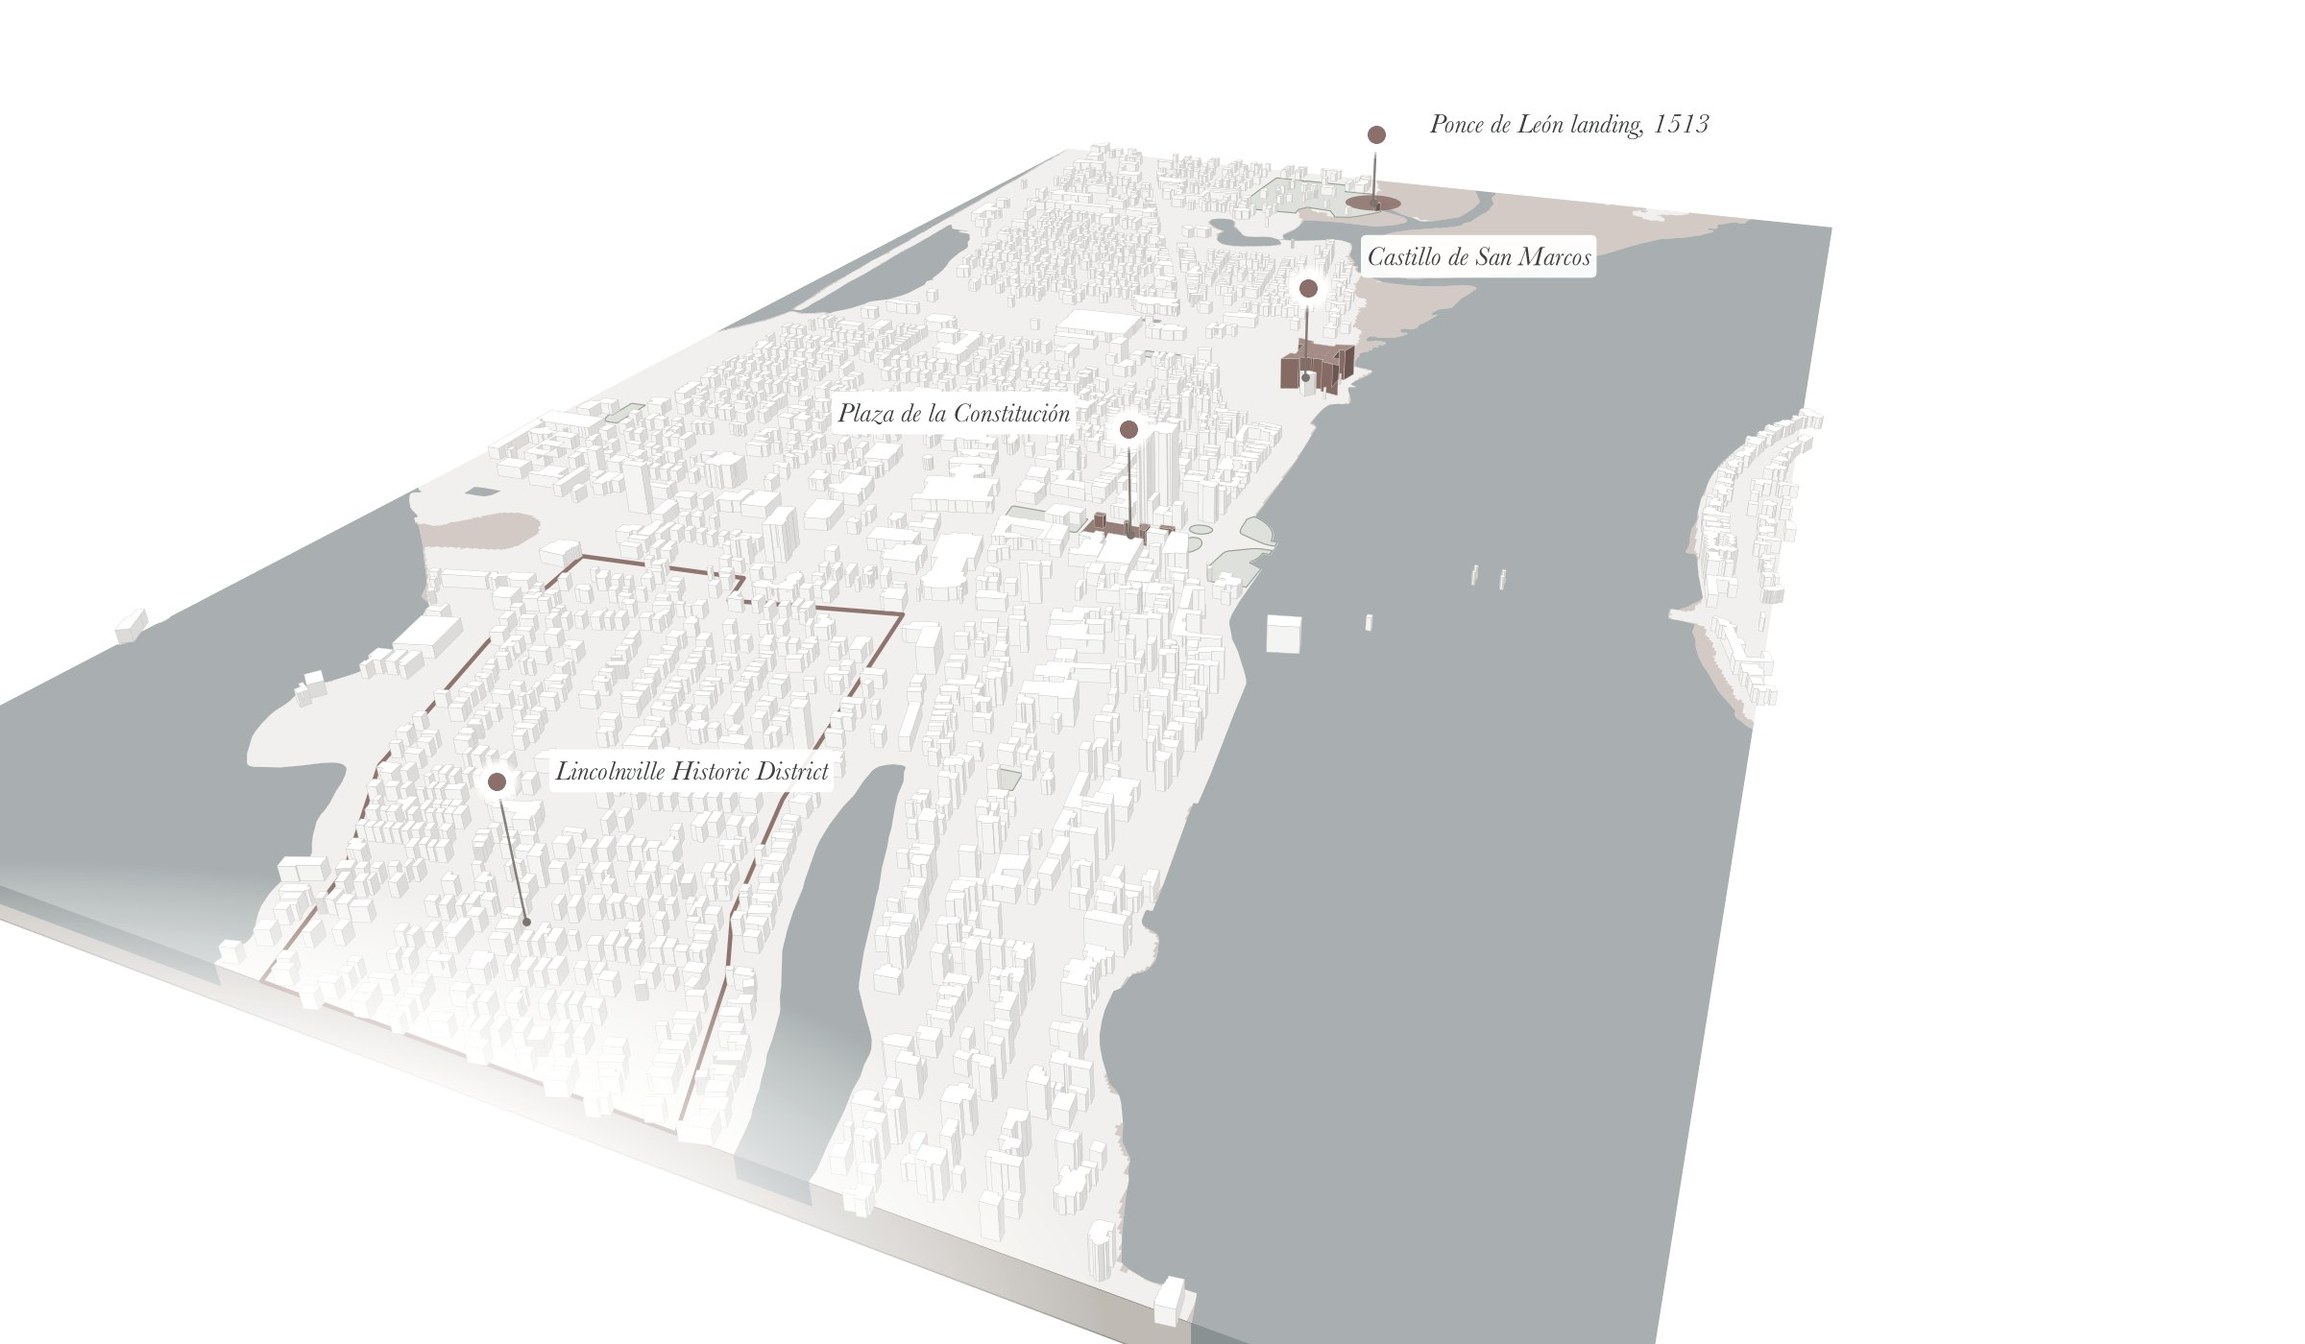
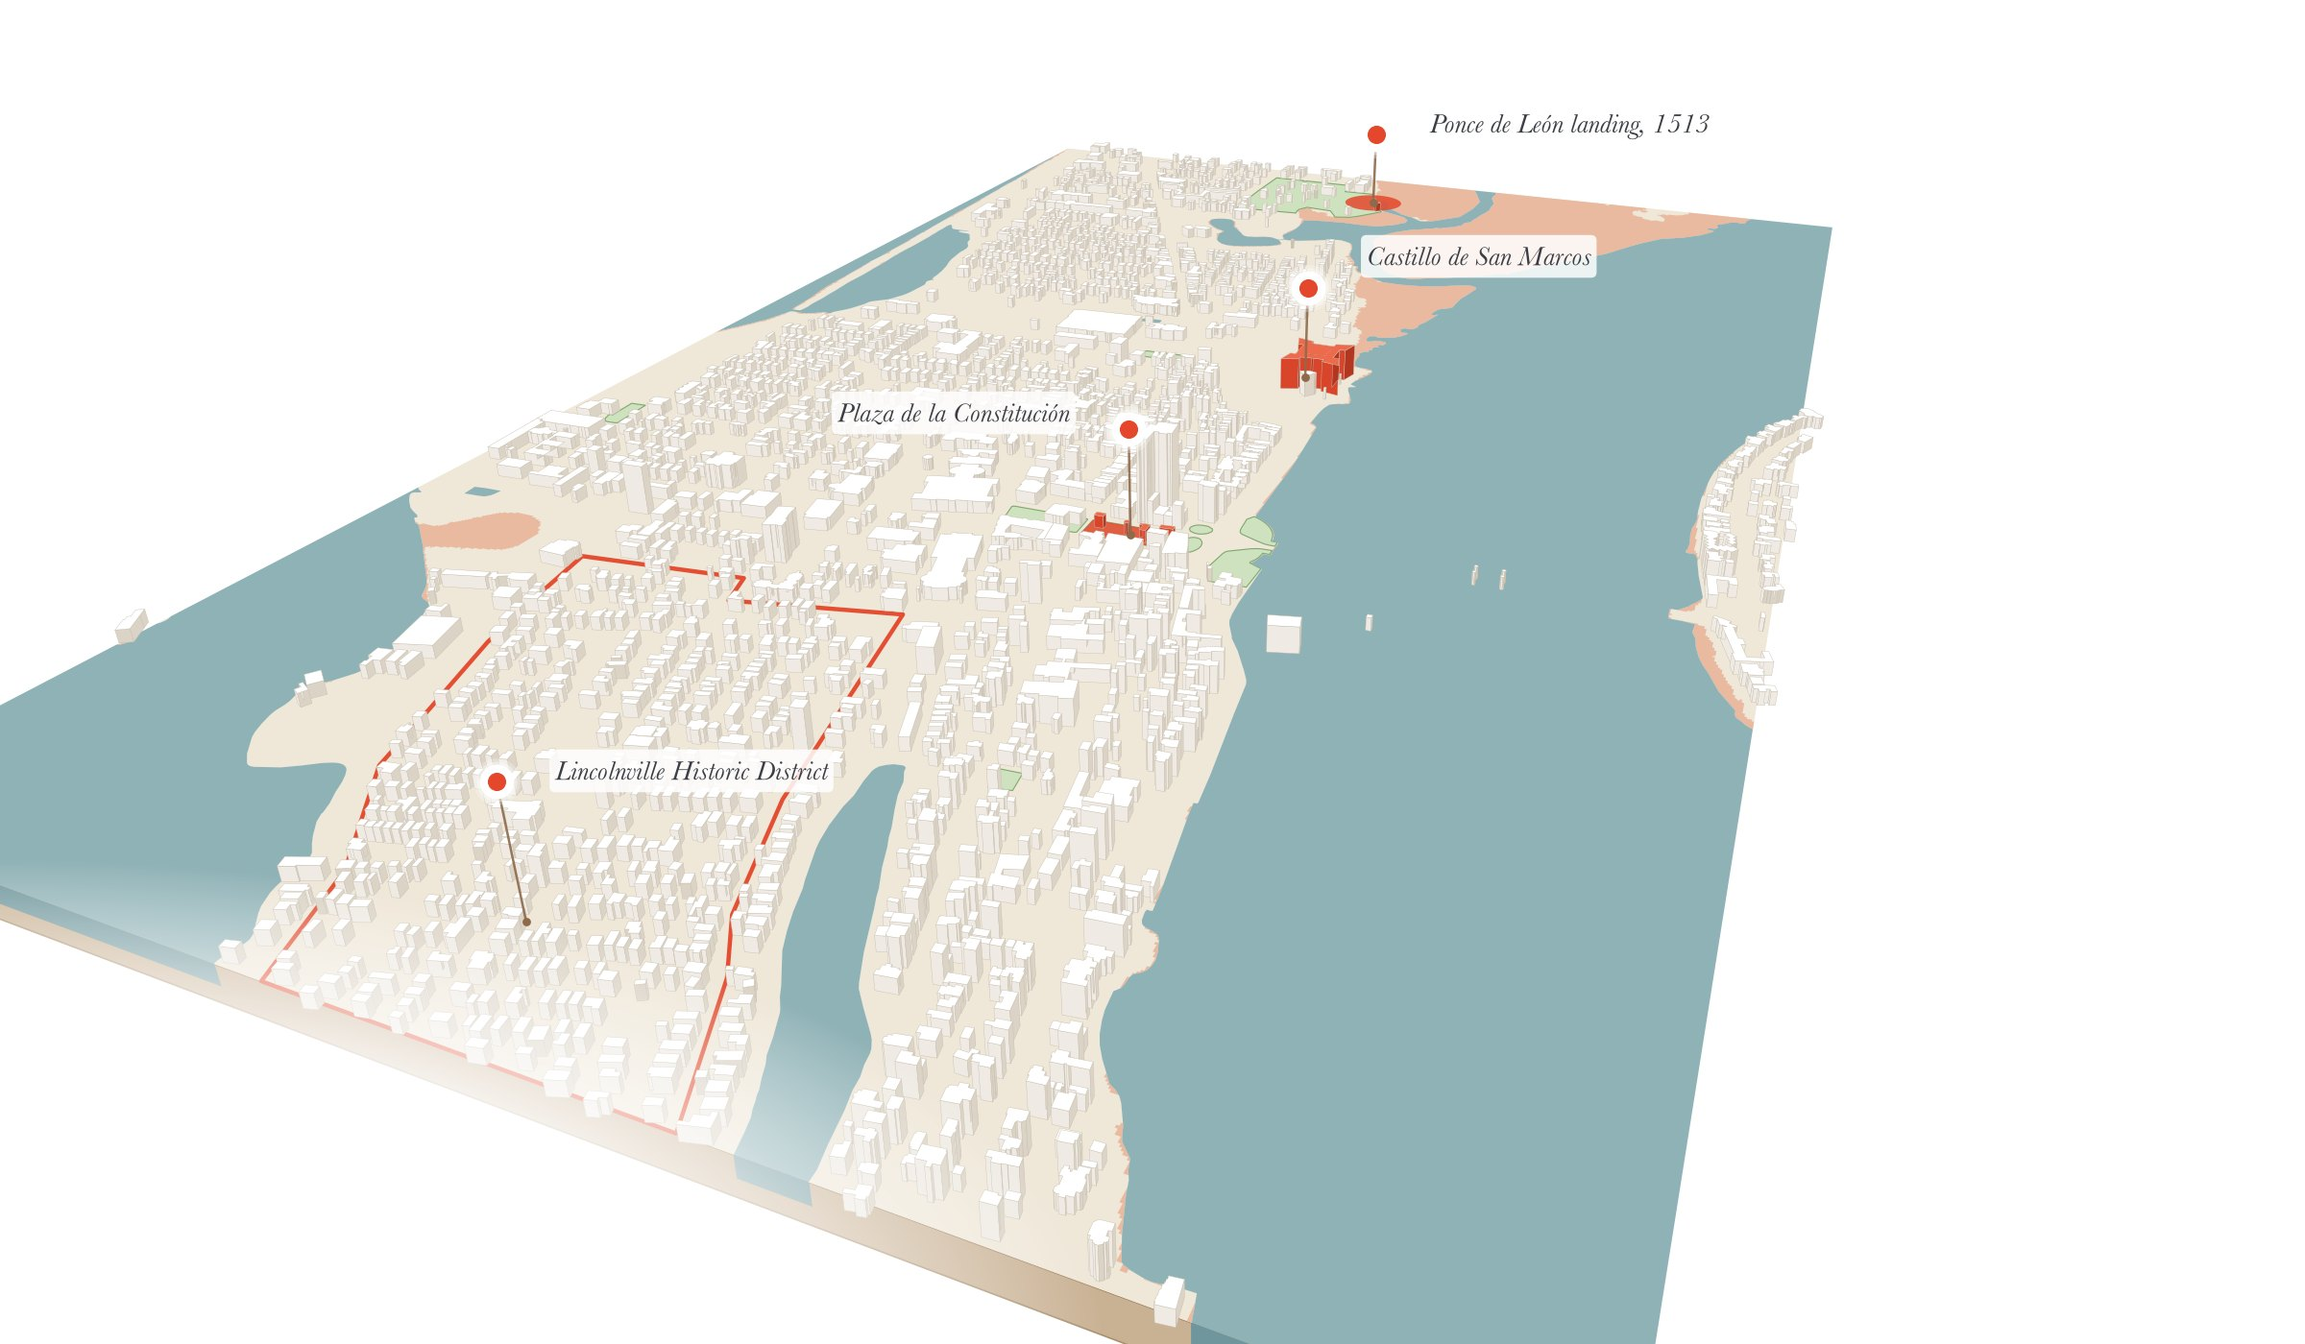
Project page in the cover palette: serif headings, numbered sections, tide-staff level picker; today in full colour on the slider

diff --git a/docs/index.html b/docs/index.html
@@ -5,35 +5,42 @@
 <meta name="viewport" content="width=device-width,initial-scale=1">
 <meta name="description" content="Sea-level-rise scenarios for St. Augustine, Florida: land loss at 1-9 ft, historic sites and parks at risk, and zoomable vector PDF figures.">
 <title>St. Augustine Under Rising Water</title>
-<link rel="stylesheet" href="https://fonts.googleapis.com/css2?family=IBM+Plex+Sans+Condensed:wght@500;600;700&family=IBM+Plex+Sans:ital,wght@0,400;0,500;1,400&family=IBM+Plex+Mono:wght@400;500&display=swap">
+<link rel="stylesheet" href="https://fonts.googleapis.com/css2?family=Libre+Baskerville:ital,wght@0,400;0,700;1,400&family=IBM+Plex+Sans:ital,wght@0,400;0,500;1,400&family=IBM+Plex+Mono:wght@400;500&display=swap">
 <style>
 /* Layout: one reading column; a tide-gauge table up top, then each figure as a plate with its vector PDF beneath. */
+/* Palette follows the cover graphics: cream land, teal sea, aqua flood, vermilion landmarks.
+   The gauge keeps the figures' blue and orange so it reads with Figures 1 and 2. */
 :root {
-  --bg: #f6f7f5;
-  --surface: #ffffff;
-  --ink: #13181c;
-  --muted: #5d666c;
-  --rule: #dfe3e2;
+  --bg: #f5f1e8;       /* land on the covers */
+  --surface: #fffcf6;
+  --ink: #2b3136;
+  --muted: #6a6f6c;
+  --rule: #e2d9c8;
+  --teal: #0f6e7a;     /* headline teal of the covers */
+  --flood: #18a7b5;    /* new flood water on the covers */
   --slr: #2a78d6;      /* ocean-connected, same blue as the figures */
   --low: #eb6834;      /* low-lying unconnected, same orange as the figures */
   --today: #a9a8a2;    /* already inundated at 0 ft */
-  --track: #e8ecec;
-  --focus: #2a78d6;
+  --track: #ebe4d6;
+  --focus: #0f6e7a;
   --accent: #e4472b;   /* landmarks and the compare handle, same vermilion as the covers */
-  --font-display: "IBM Plex Sans Condensed", "Arial Narrow", system-ui, sans-serif;
+  --shadow: 0 1px 2px rgba(60, 50, 30, 0.06), 0 8px 28px rgba(60, 50, 30, 0.08);
+  --font-display: "Libre Baskerville", Baskerville, Georgia, serif;
   --font-body: "IBM Plex Sans", system-ui, -apple-system, "Segoe UI", sans-serif;
   --font-mono: "IBM Plex Mono", ui-monospace, "SFMono-Regular", Menlo, monospace;
 }
 @media (prefers-color-scheme: dark) {
   :root:not([data-theme="light"]) {
-    --bg: #0f1417; --surface: #161d21; --ink: #e7ecee; --muted: #9aa5ab; --rule: #2a3439;
-    --slr: #5b9cf0; --low: #f08257; --today: #7d7c77; --track: #232c31; --focus: #5b9cf0; --accent: #f0664c;
+    --bg: #121819; --surface: #1a2224; --ink: #ece7dc; --muted: #a2a9a6; --rule: #2c3639;
+    --teal: #5cc6d1; --flood: #3cc3cf; --slr: #5b9cf0; --low: #f08257; --today: #7d7c77;
+    --track: #253033; --focus: #5cc6d1; --accent: #f0664c; --shadow: 0 8px 28px rgba(0, 0, 0, 0.35);
     color-scheme: dark;
   }
 }
 :root[data-theme="dark"] {
-  --bg: #0f1417; --surface: #161d21; --ink: #e7ecee; --muted: #9aa5ab; --rule: #2a3439;
-  --slr: #5b9cf0; --low: #f08257; --today: #7d7c77; --track: #232c31; --focus: #5b9cf0; --accent: #f0664c;
+  --bg: #121819; --surface: #1a2224; --ink: #ece7dc; --muted: #a2a9a6; --rule: #2c3639;
+  --teal: #5cc6d1; --flood: #3cc3cf; --slr: #5b9cf0; --low: #f08257; --today: #7d7c77;
+  --track: #253033; --focus: #5cc6d1; --accent: #f0664c; --shadow: 0 8px 28px rgba(0, 0, 0, 0.35);
   color-scheme: dark;
 }
 * { box-sizing: border-box; }
@@ -52,19 +59,25 @@ body {
   padding-block: 2.5rem 3rem;
   display: grid; gap: 3rem;
 }
-h1, h2, h3 { font-family: var(--font-display); text-wrap: balance; margin: 0; line-height: 1.15; }
-h1 { font-size: clamp(2rem, 5vw, 3.1rem); font-weight: 700; letter-spacing: -0.01em; }
-h2 { font-size: 1.6rem; font-weight: 600; }
-h3 { font-size: 1.15rem; font-weight: 600; }
+h1, h2, h3 { font-family: var(--font-display); text-wrap: balance; margin: 0; line-height: 1.15; font-weight: 400; }
+h1 { font-size: clamp(2.2rem, 6vw, 4rem); letter-spacing: -0.015em; line-height: 1.05; }
+h1 em, h2 em { font-style: italic; color: var(--teal); }
+h2 { font-size: clamp(1.5rem, 3vw, 2rem); }
+h3 { font-size: 1.15rem; }
 p { margin: 0; max-width: 65ch; }
 .eyebrow {
-  font-family: var(--font-mono); font-size: 0.75rem; letter-spacing: 0.08em;
+  font-family: var(--font-mono); font-size: 0.75rem; letter-spacing: 0.1em;
   text-transform: uppercase; color: var(--muted);
 }
-header { display: grid; gap: 1rem; }
-.lede { font-size: 1.15rem; color: var(--ink); }
+/* section numbers, as on a portfolio board */
+.num { font-family: var(--font-mono); font-size: 0.75rem; letter-spacing: 0.1em; color: var(--accent); }
+header { display: grid; gap: 1.1rem; padding-top: 1rem; }
+header .eyebrow { color: var(--accent); }
+.lede { font-size: 1.2rem; color: var(--ink); max-width: 52ch; }
 .meta { color: var(--muted); font-size: 0.9rem; }
-a { color: var(--slr); }
+/* a hand-drawn tide line under the title */
+.tide { display: block; width: min(22rem, 70%); height: 14px; color: var(--flood); }
+a { color: var(--teal); }
 a:focus-visible, button:focus-visible, a.button:focus-visible { outline: 2px solid var(--focus); outline-offset: 2px; }
 
 /* Tide gauge: each row is a level, the bar is newly inundated share of city land on a 0-100% scale. */
@@ -73,7 +86,7 @@ a:focus-visible, button:focus-visible, a.button:focus-visible { outline: 2px sol
 .rows { display: grid; gap: 0.55rem; font-variant-numeric: tabular-nums; }
 .row { display: grid; grid-template-columns: 3.5rem minmax(0, 1fr) 4rem; gap: 0.75rem; align-items: center; }
 .lvl { font-family: var(--font-mono); font-size: 0.95rem; text-align: right; }
-.track { height: 1.4rem; background: var(--track); border-radius: 2px; display: flex; overflow: hidden; }
+.track { height: 1.4rem; background: var(--track); border-radius: 999px; display: flex; overflow: hidden; }
 .seg-slr { background: var(--slr); }
 .seg-low { background: var(--low); }
 .pct { font-family: var(--font-mono); font-weight: 500; }
@@ -87,8 +100,8 @@ a:focus-visible, button:focus-visible, a.button:focus-visible { outline: 2px sol
 .note { font-size: 0.9rem; color: var(--muted); }
 
 .facts { display: grid; grid-template-columns: repeat(auto-fit, minmax(14rem, 1fr)); gap: 1rem; }
-.fact { border-top: 2px solid var(--ink); padding-top: 0.6rem; display: grid; gap: 0.25rem; min-width: 0; }
-.fact b { font-family: var(--font-display); font-size: 1.9rem; font-weight: 600; font-variant-numeric: tabular-nums; }
+.fact { border-top: 1px solid var(--ink); padding-top: 0.8rem; display: grid; gap: 0.3rem; min-width: 0; }
+.fact b { font-family: var(--font-display); font-size: 2.2rem; font-weight: 400; color: var(--teal); font-variant-numeric: tabular-nums; }
 .fact span { font-size: 0.9rem; color: var(--muted); }
 
 /* Figure plates */
@@ -98,19 +111,19 @@ a:focus-visible, button:focus-visible, a.button:focus-visible { outline: 2px sol
 .plate-head > div { min-width: 0; display: grid; gap: 0.2rem; }
 .sheet {
   background: #ffffff;  /* the figures are printed on white in both themes */
-  border: 1px solid var(--rule); border-radius: 3px; overflow: hidden;
+  border: 1px solid var(--rule); border-radius: 6px; overflow: hidden; box-shadow: var(--shadow);
 }
 .sheet img { display: block; width: 100%; height: auto; }
 .caption { font-size: 0.95rem; color: var(--muted); }
 .actions { display: flex; flex-wrap: wrap; gap: 0.5rem; }
 button {
   font: 500 0.9rem/1 var(--font-body); color: var(--ink); background: var(--surface);
-  border: 1px solid var(--rule); border-radius: 3px; padding: 0.6rem 0.9rem; cursor: pointer;
+  border: 1px solid var(--rule); border-radius: 999px; padding: 0.6rem 1rem; cursor: pointer;
 }
 button:hover, a.button:hover { border-color: var(--muted); }
 a.button {
   font: 500 0.9rem/1 var(--font-body); color: var(--ink); background: var(--surface);
-  border: 1px solid var(--rule); border-radius: 3px; padding: 0.6rem 0.9rem; text-decoration: none;
+  border: 1px solid var(--rule); border-radius: 999px; padding: 0.6rem 1rem; text-decoration: none;
 }
 button.primary { background: var(--ink); color: var(--bg); border-color: var(--ink); }
 button[disabled] { opacity: 0.5; cursor: default; }
@@ -132,22 +145,28 @@ footer { border-top: 1px solid var(--rule); padding-top: 1rem; font-size: 0.85re
 code { font-family: var(--font-mono); font-size: 0.9em; }
 @media (max-width: 480px) {
   .row, .scale { grid-template-columns: 2.8rem minmax(0, 1fr) 3.4rem; gap: 0.5rem; }
+  .levels button { padding: 0.5rem 0.62rem; font-size: 0.82rem; }
 }
 @media (prefers-reduced-motion: no-preference) {
   .seg-slr, .seg-low { transition: width 0.6s ease; }
 }
 
-/* Drag to compare: today (left, desaturated) against a chosen level (right). The range input
+/* Drag to compare: today (left) against a chosen level (right). The range input
    covers the image, so mouse, touch and arrow keys all move the divider. */
-.compare { display: grid; gap: 0.9rem; }
-.compare-head { display: grid; gap: 0.4rem; }
-.levels { display: flex; flex-wrap: wrap; gap: 0.4rem; }
-.levels button { font-family: var(--font-mono); border-radius: 999px; padding: 0.45rem 0.85rem; }
-.levels button[aria-pressed="true"] { background: var(--accent); border-color: var(--accent); color: #ffffff; }
+.compare { display: grid; gap: 1rem; }
+.compare-head { display: grid; gap: 0.5rem; }
+/* level picker drawn as a tide staff: one track, the chosen mark filled vermilion */
+.levels {
+  display: inline-flex; flex-wrap: wrap; gap: 2px; padding: 3px; justify-self: start;
+  background: var(--surface); border: 1px solid var(--rule); border-radius: 999px;
+}
+.levels button { font-family: var(--font-mono); border: 0; background: transparent; padding: 0.5rem 0.95rem; }
+.levels button:hover { background: var(--track); }
+.levels button[aria-pressed="true"] { background: var(--accent); color: #ffffff; }
 .cmp {
   --pos: 50%;
   position: relative; aspect-ratio: 12 / 7; overflow: hidden; user-select: none;
-  background: #ffffff; border: 1px solid var(--rule); border-radius: 3px;
+  background: #ffffff; border: 1px solid var(--rule); border-radius: 8px; box-shadow: var(--shadow);
 }
 .cmp .layer { position: absolute; inset: 0; }
 .cmp .before-layer { clip-path: inset(0 calc(100% - var(--pos)) 0 0); }
@@ -181,23 +200,25 @@ code { font-family: var(--font-mono); font-size: 0.9em; }
   position: absolute; inset: 0; width: 100%; height: 100%; margin: 0; opacity: 0; cursor: ew-resize;
 }
 .cmp:has(input:focus-visible) .knob { outline: 3px solid var(--focus); outline-offset: 3px; }
-.cmp-stat { font-size: 1.05rem; }
-.cmp-stat b { font-family: var(--font-display); font-size: 1.6rem; color: var(--accent); font-variant-numeric: tabular-nums; }
+.cmp-stat { font-family: var(--font-display); font-size: 1.1rem; line-height: 1.7; min-height: 3.6em; }
+.cmp-stat b { font-size: 1.7rem; font-weight: 400; color: var(--accent); font-variant-numeric: tabular-nums; }
 </style>
 </head>
 <body>
 <div class="wrap">
   <header>
     <span class="eyebrow">St. Augustine, Florida · NOAA SLR scenarios above MHHW</span>
-    <h1>St. Augustine under rising water</h1>
+    <h1>St. Augustine <em>under rising water</em></h1>
+    <svg class="tide" viewBox="0 0 352 14" preserveAspectRatio="none" aria-hidden="true"><path d="M1 8c22-9 44-9 66 0s44 9 66 0 44-9 66 0 44 9 66 0 44-9 66 0" fill="none" stroke="currentColor" stroke-width="2.5" stroke-linecap="round"/></svg>
     <p class="lede">At 3 ft of sea-level rise, a fifth of the city's land floods beyond today's high-tide line, and the water reaches the Castillo de San Marcos and the Plaza de la Constitución.</p>
     <p class="meta">A reproducible pipeline built from NOAA, U.S. Census and OpenStreetMap data. Source code: <a href="https://github.com/Lunarc-Seattle/st-augustine-slr">github.com/Lunarc-Seattle/st-augustine-slr</a></p>
   </header>
 
   <section class="compare" aria-labelledby="compare-title">
     <div class="compare-head">
-      <h2 id="compare-title">Drag to compare</h2>
-      <p class="note">The old town today, in grey, against the same streets after sea-level rise. Drag the handle, or focus it and use the arrow keys. 2.5D view up the bayfront from the south; heights and water exaggerated five times.</p>
+      <span class="num">01 · Compare</span>
+      <h2 id="compare-title">Drag <em>today</em> against the rising sea</h2>
+      <p class="note">The old town today against the same streets after sea-level rise. Drag the handle, or focus it and use the arrow keys. 2.5D view up the bayfront from the south; heights and water exaggerated five times.</p>
     </div>
     <div class="levels" role="group" aria-label="Sea-level rise shown on the right"></div>
     <div class="cmp" id="cmp">
@@ -206,7 +227,7 @@ code { font-family: var(--font-mono); font-size: 0.9em; }
         <div class="cap cap-after"><b id="cmp-cap-ft">+7 ft</b><span id="cmp-cap-pct">61.8% of the city's land newly under water</span></div>
       </div>
       <div class="layer before-layer">
-        <img class="before" src="figures/compare/today.jpg" alt="The old town today, in grey" draggable="false">
+        <img class="before" src="figures/compare/today.jpg" alt="The old town today, dry streets between white buildings" draggable="false">
         <div class="cap cap-before"><b>Today</b><span>old town at mean higher high water</span></div>
       </div>
       <span class="tag tag-before">TODAY</span>
@@ -219,7 +240,8 @@ code { font-family: var(--font-mono); font-size: 0.9em; }
 
   <section class="gauge" aria-labelledby="gauge-title">
     <div class="gauge-head">
-      <h2 id="gauge-title">New inundation by sea-level rise</h2>
+      <span class="num">02 · Land</span>
+      <h2 id="gauge-title">New inundation by <em>sea-level rise</em></h2>
       <p class="note">Share of the city's 24.63 km² of land that floods at each level, not counting the 5.68 km² (mostly tidal marsh) already below today's mean higher high water.</p>
     </div>
     <div class="rows" role="table" aria-label="Newly inundated share of city land by sea-level rise">
@@ -242,7 +264,11 @@ code { font-family: var(--font-mono); font-size: 0.9em; }
     <div class="fact"><b>0.14%</b><span>gap between computed city land and the Census <code>ALAND</code> figure</span></div>
   </section>
 
-  <section class="plates" aria-label="Figures">
+  <section class="plates" aria-labelledby="plates-title">
+    <div class="compare-head">
+      <span class="num">03 · Figures</span>
+      <h2 id="plates-title">Maps and charts, <em>in vector</em></h2>
+    </div>
     <article class="plate" data-pdf="pdf/fig1_inundation_small_multiples.pdf">
       <div class="plate-head">
         <div><span class="eyebrow">Figure 1 · A4 landscape · vector PDF 11.9 MB</span><h3>Inundation at 1, 3, 5, 7 and 9 ft</h3></div>

diff --git a/scripts/covers/persp.py b/scripts/covers/persp.py
@@ -479,8 +479,8 @@ def make_gif():
 def make_compare(scale=2):
     """Full-frame stills for the drag-to-compare slider on the project page.
 
-    today.jpg is drained of colour like the split still; <ft>ft.jpg keep theirs. Pearls show
-    each image's own level. levels.json carries the headline numbers from land_loss.csv.
+    All stills keep full colour, so today reads as the same place, just drier; the aqua flood
+    carries the contrast. Pearls show each image's own level. levels.json carries the headline numbers from land_loss.csv.
     """
     import json
 
@@ -495,11 +495,7 @@ def make_compare(scale=2):
         plt.close(fig)
         im = Image.open(tmp).convert("RGB")
         tmp.unlink()
-        if lv == 0:
-            im = ImageEnhance.Brightness(ImageEnhance.Color(im).enhance(0.18)).enhance(1.04)
-            im.save(out / "today.jpg", quality=86, optimize=True, progressive=True)
-        else:
-            im.save(out / f"{lv}ft.jpg", quality=86, optimize=True, progressive=True)
+        im.save(out / ("today.jpg" if lv == 0 else f"{lv}ft.jpg"), quality=86, optimize=True, progressive=True)
         print("compare", lv)
     PEARL_SHOW_LEVEL = True
     levels = [{"ft": lv, "pct": round(float(pct[lv]), 1)} for lv in LEVELS if lv > 0]
